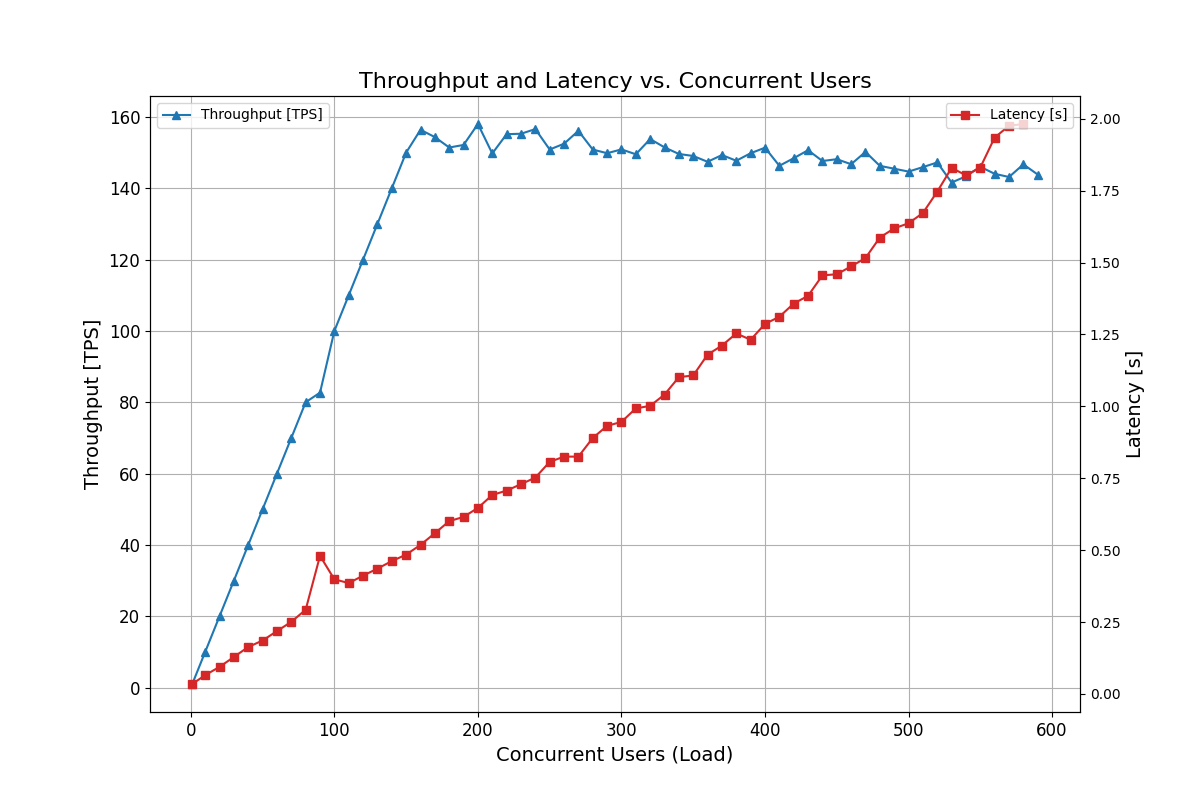
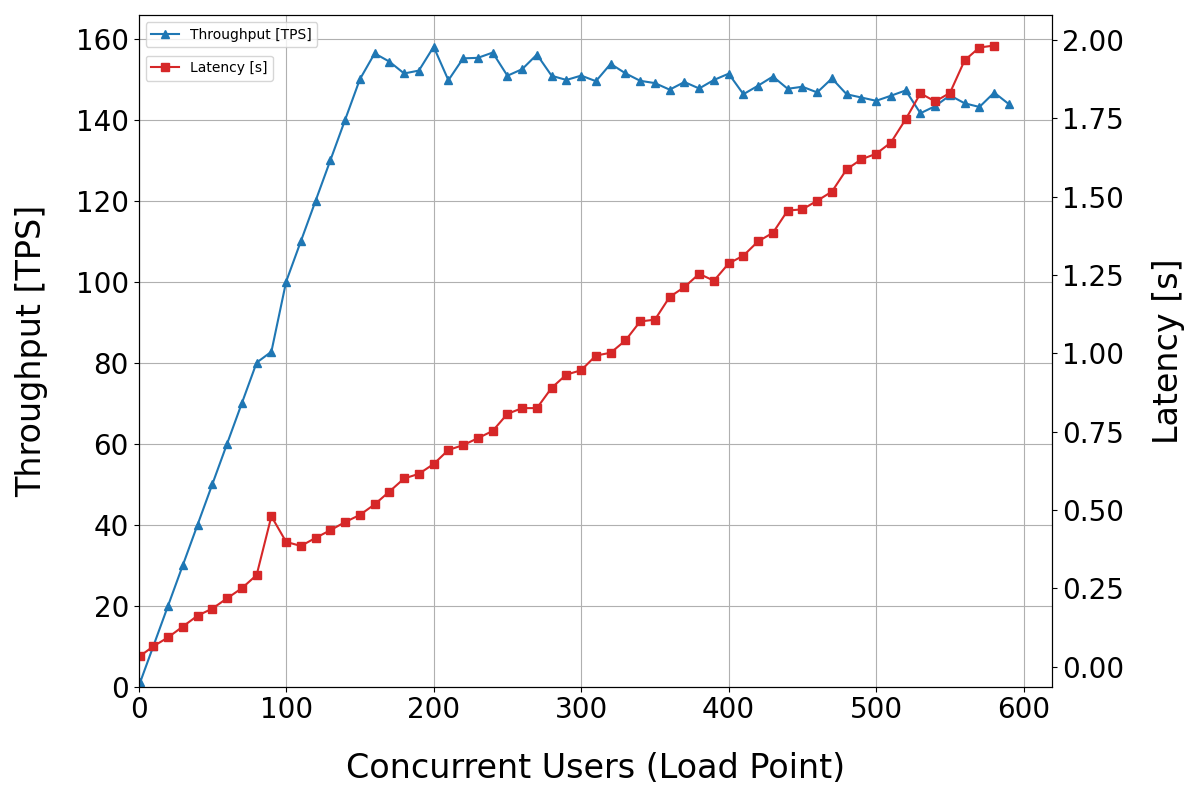
update data

diff --git a/src/Visualizer.py b/src/Visualizer.py
@@ -290,10 +290,11 @@ def latency_and_throughput_curve(df: pd.DataFrame):
         marker="^",
         label="Throughput [TPS]",
     )
-    ax1.set_xlabel("Concurrent Users (Load)", fontsize=14)
-    ax1.set_ylabel("Throughput [TPS]", fontsize=14)
-    ax1.tick_params(axis="y")
-    ax1.tick_params(axis="both", which="major", labelsize=12)
+    ax1.set_xlabel("Concurrent Users (Load Point)", fontsize=24, labelpad=20)
+    ax1.set_ylabel("Throughput [TPS]", fontsize=24, labelpad=20)
+    ax1.tick_params(axis="both", which="major", labelsize=20)
+    ax1.set_xlim(left=0)
+    ax1.set_ylim(bottom=0)
 
     # Create a second y-axis for latency
     ax2 = ax1.twinx()
@@ -304,16 +305,17 @@ def latency_and_throughput_curve(df: pd.DataFrame):
         marker="s",
         label="Latency [s]",
     )
-    ax2.set_ylabel("Latency [s]", fontsize=14)
-    ax2.tick_params(axis="y")
+    ax2.set_ylabel("Latency [s]", fontsize=24, labelpad=20)
+    ax2.tick_params(axis="y", which="major", labelsize=20)
 
     # Add grid and title
     ax1.grid(True)
-    plt.title("Throughput and Latency vs. Concurrent Users", fontsize=16)
 
     # Add legends for both axes
     ax1.legend(loc="upper left")
-    ax2.legend(loc="upper right")
+    ax2.legend(loc="upper left", bbox_to_anchor=(0, 0.95))
+
+    plt.tight_layout()
 
     # Show the plot
     plt.show()
@@ -323,11 +325,10 @@ if __name__ == "__main__":
     AVAILABLE_LANGUAGES = "available_languages_gunicorn_w_4.csv"
     EXERCISE_SESSION_UPDATE = "exercise_session_update_gunicorn_w_4.csv"
     READING_SESSION_UPDATE = "reading_session_update_gunicorn_w_4.csv"
-    # TODO: Rerun reading_session_update!!!
     UPLOAD_USER_ACTIVITY_DATA = "upload_user_activity_data_gunicorn_w_4.csv"
     USER_ARTICLES_RECOMMENDED = "user_articles_recommended_gunicorn_w_4.csv"
 
-    file_to_visualize = UPLOAD_USER_ACTIVITY_DATA
+    file_to_visualize = READING_SESSION_UPDATE
 
     path = "./results/" + file_to_visualize
 

diff --git a/src/EndpointAnalysis.py b/src/EndpointAnalysis.py
@@ -39,7 +39,7 @@ print(df.head(15))
 
 # Get the top 5 values in normalized length
 df_under_threshold = df[df["latency"] < LATENCY_THRESHOLD]
-top_5 = df_under_threshold.head(5)
+top_5 = df_under_threshold.head(15)
 
 plt.figure(figsize=(10, 6))
 plt.scatter(df["latency"], df["hits"], color="blue", s=10)
